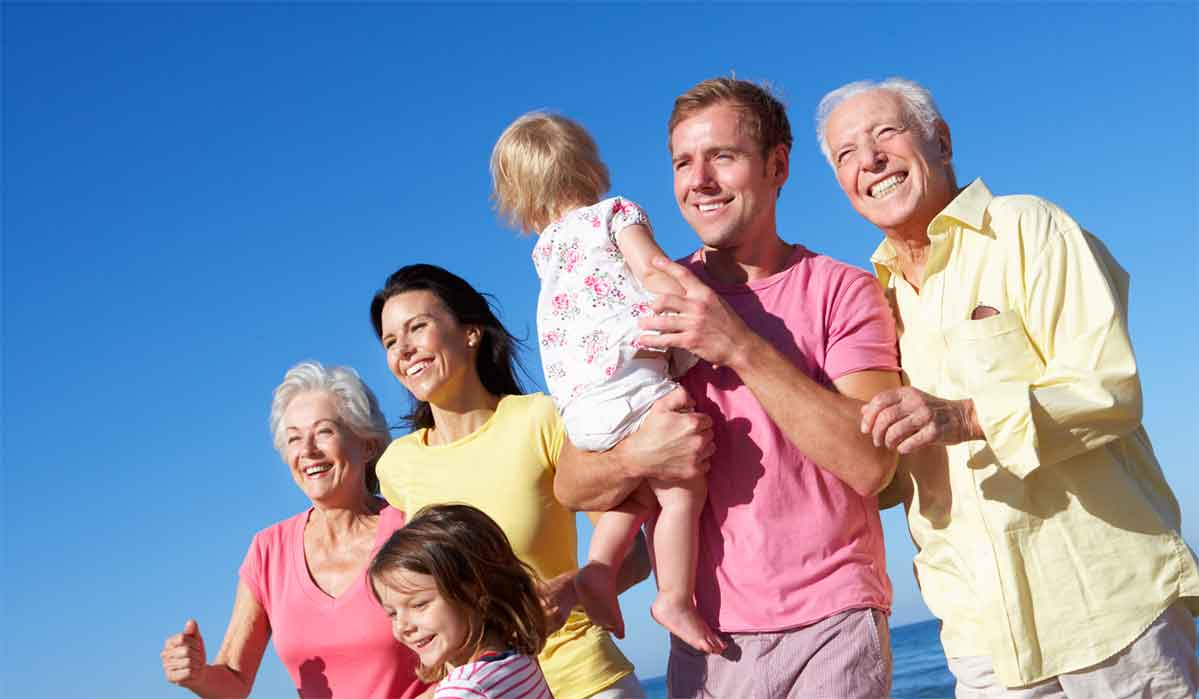
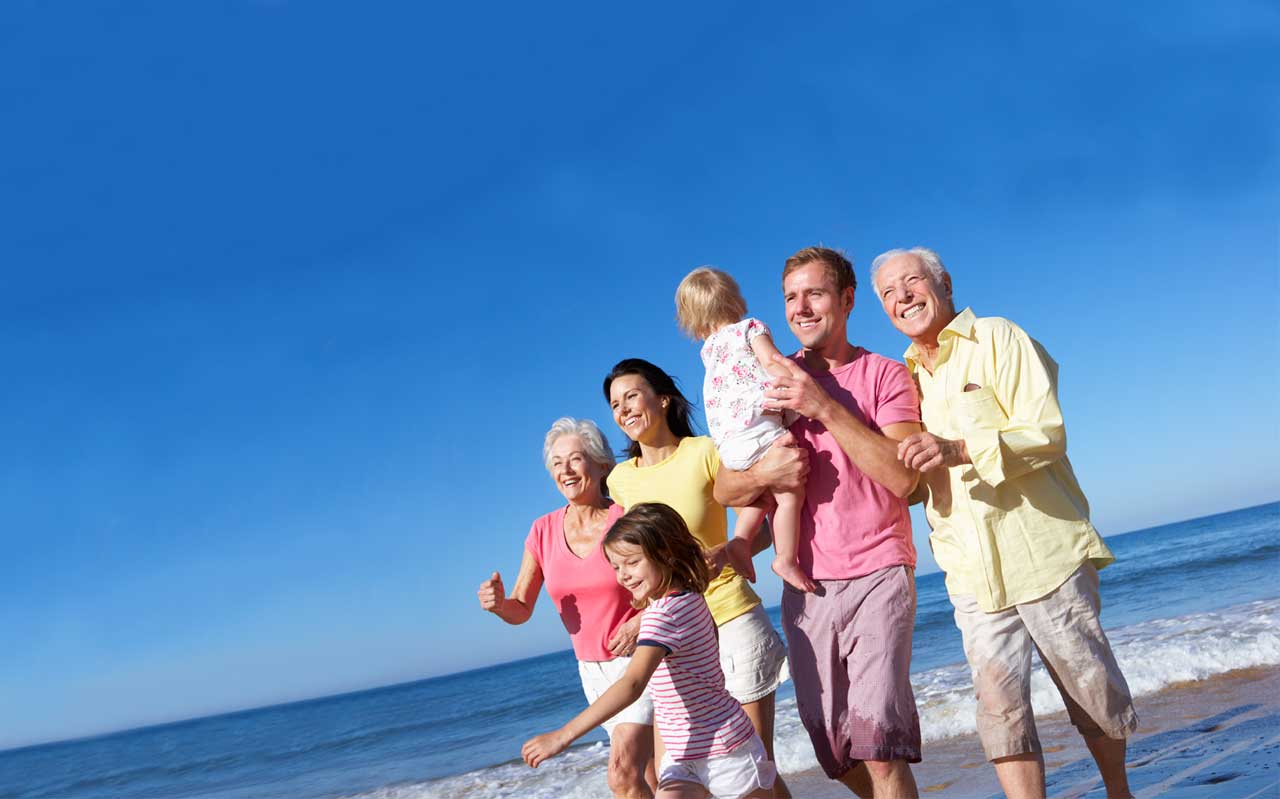
Added medium hero background photo and adjusted styles for background photos in #hero and #doctor

diff --git a/style.css b/style.css
@@ -822,13 +822,20 @@ textarea {
 	}
 }
 
+@media screen and ( max-width : 1280px ) {
+
+	#hero {
+		background: #385BAB url('/wp-content/themes/shvmd/img/hero-bg-md.jpg') center bottom no-repeat;
+	}
+}
+
 @media screen and ( max-width : 1199px ) {
 	header .navbar {
 		font-size: 16px;
 	}
 
 	#hero {
-		background: #385BAB url('/wp-content/themes/shvmd/img/hero-bg.jpg') 39% 0 no-repeat;
+		background: #385BAB url('/wp-content/themes/shvmd/img/hero-bg-md.jpg') left 0 no-repeat;
 	}
 
 	#hero .hero-subtitle {
@@ -913,7 +920,7 @@ textarea {
 	}
 
 	#doctor {
-		background: url('/wp-content/themes/shvmd/img/drmercer-bg-sm.jpg') center top no-repeat;
+		background: url('/wp-content/themes/shvmd/img/drmercer-bg-sm.jpg') left top no-repeat;
 		padding-top: 722px;
 	}
 
@@ -962,7 +969,7 @@ textarea {
 
 
 	#doctor {
-		background: url('/wp-content/themes/shvmd/img/drmercer-bg-xs.jpg') center top no-repeat;
+		background: url('/wp-content/themes/shvmd/img/drmercer-bg-xs.jpg') left top no-repeat;
 		padding-top: 572px;
 	}
 
